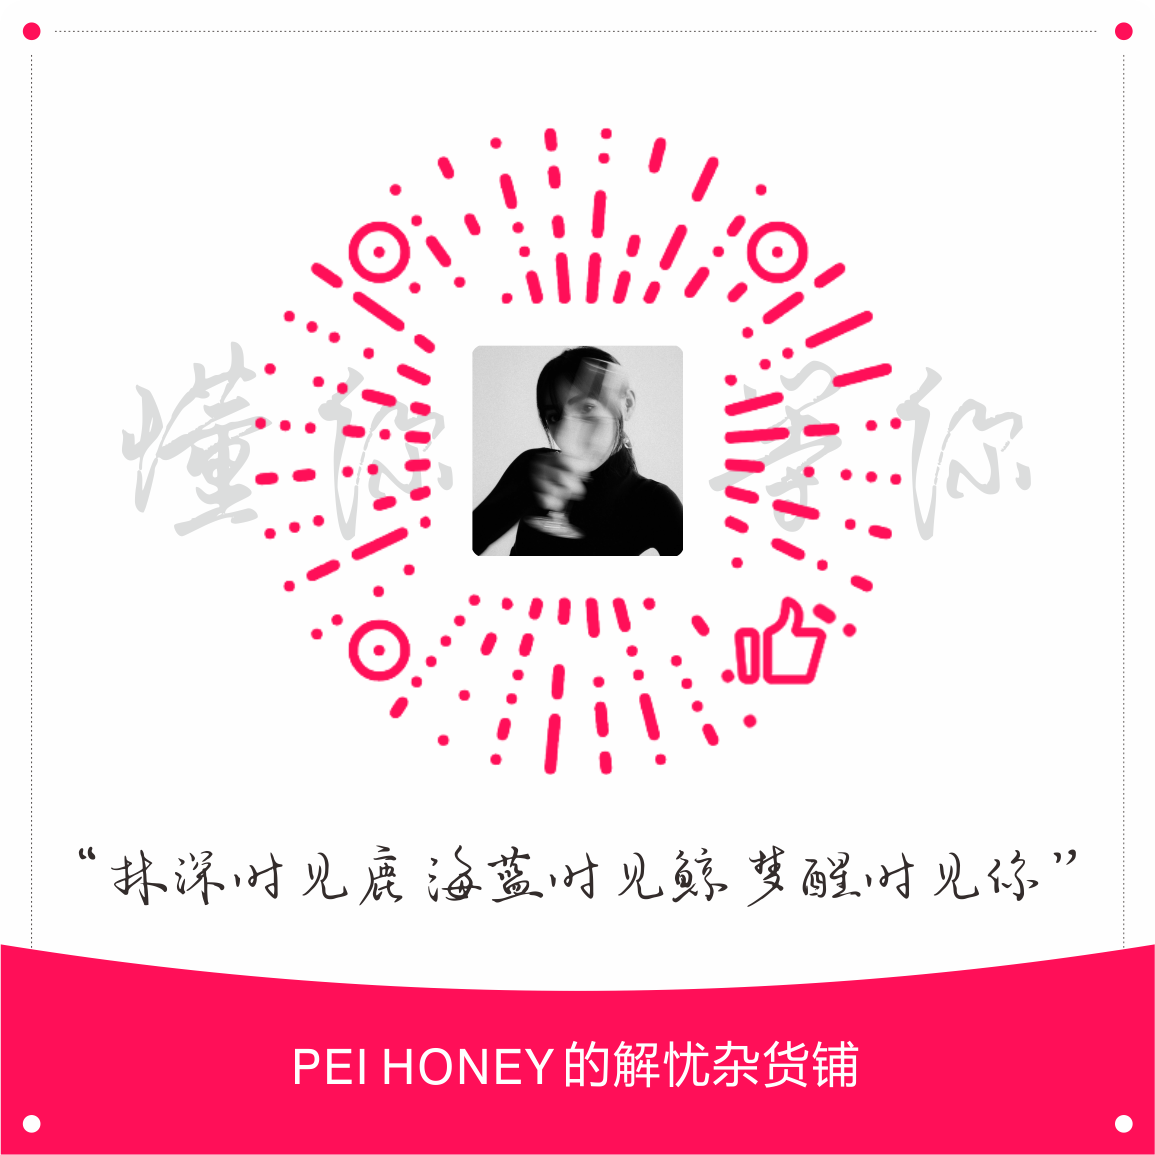
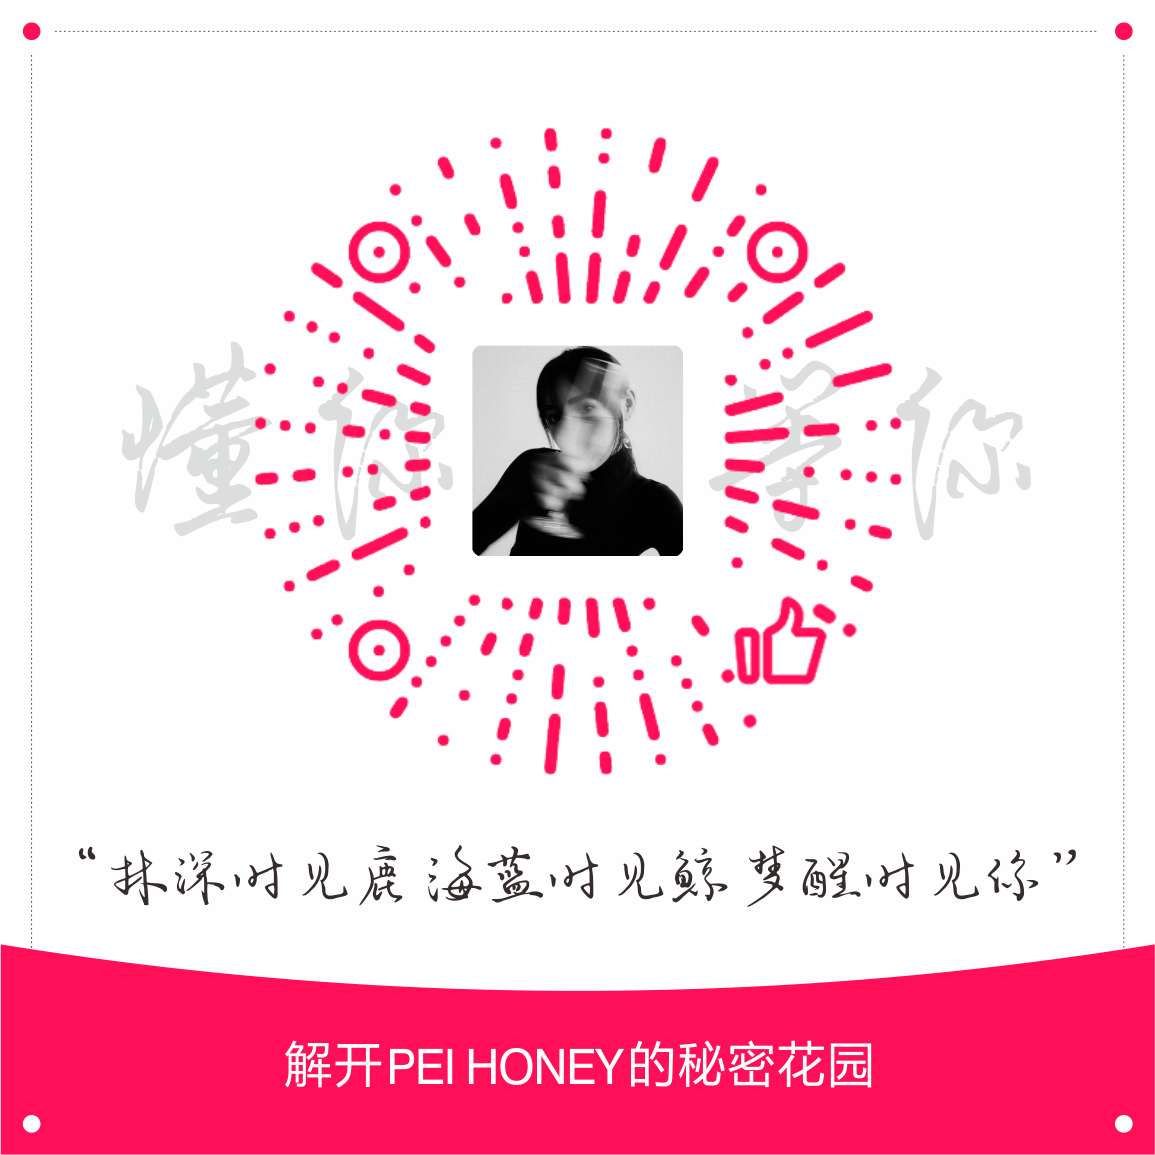
大调整
整体修改

Changed region(s): [[0.2494, 0.9039, 0.7792, 0.9662]]

diff --git a/02/index.html b/02/index.html
@@ -278,7 +278,7 @@
             <!-- <p id="logo"><img src="./images/logo.png" alt="" style="padding: 30px;"></p> -->
             <video src="./images/video.mp4" style="width: 100%; text-align: center; margin: 0px auto;" controls poster="images/sexy.png" width="100%"></video>
             <p style=" font-size: 13px; text-align: center;">私人定制，不懂勿入，自备纸巾</p>
-            <p style=" font-size: 13px; font-weight: 600; text-align: center; ">玩具互动 ☆ 一对一 ☆ 深夜哄睡</p>
+            <p style=" font-size: 13px; font-weight: 600; text-align: center; ">游戏互动 ☆ 一对一 ☆ 深夜哄睡</p>
         </div>
 
         <div class="header">
@@ -351,18 +351,18 @@
             <ol>
                 <li>1、未满18周岁请立即离开</li>
                 <li>2、成人备好纸巾,不懂勿入</li>
-                <li>3、私人定制,切莫转发</li>
+                <li>3、私人社交群,切莫转发</li>
             </ol>
         </div>
 
         <div class="sidebar">
             <h4>常见问题</h4>
             <strong>一.赞赏后支持退款吗?</strong>
-            <p>一旦赞赏,即视为资源，无论任何原因概不退款,请谨慎选择,看清再决定是否。赞赏额度看个人自愿，绝不强求，一包烟钱而已；之所以设置门槛是为了删选少数无聊至极的垃圾人, 
-                过滤人群,提升朋友圈质量,再者杜绝个别白嫖群众。赞赏时务必将微信ID留言告知,这样宝宝才能加上你,跟你建立上链接,亲爱的，相信我，你的豪爽会换来惊喜。</p>
+            <p>一旦赞赏,即视为自愿，无论任何原因概不退款,请谨慎选择,看清再决定。赞赏金额看个人自愿，绝不强求，一包烟钱而已,穷不了你也富不了我；之所以设置门槛是为了删选少数无聊至极的垃圾人, 
+                过滤人群,提升朋友圈质量,再者杜绝个别白嫖群众。赞赏时务必将微信ID留言告知,这样宝宝才能加上你,跟你建立上链接,亲爱的，相信我！你的豪爽一定会换来意外惊喜。</p>
             <strong>二.进粉丝福利群后有什么?</strong>
-            <p>各个城市的小姐姐都有，可以互看，交流，一对一等。有同城的可以自行勾兑，但是不可以乱发广告。
-                会定期持续更新最新视频、图片内容。总之，在短视频看不到的群里都有。</p>
+            <p>都是本人几个闺中密友，志同道合且思想开放，只要你不是太低级趣味，都可以很好的互加联系方式私下交流，一对一、语音哄睡等等（懂的都懂，这里不做过多赘述）。有同城的可以自行勾兑，但是不可以乱发广告。
+                会定期持续更新最新视频、图片内容。总之，在我们的视频号或朋友圈看不到的群里都有。</p>
         </div>
     
         <div class="bottor">
@@ -414,7 +414,7 @@
                 </tr>
                 <tr>
                     <!-- <td>张三</td> -->
-                    <td colspan="2" style="color: rgb(0, 0, 0);">Monak小姐姐真特么的能喘…受不了</td>
+                    <td colspan="2" style="color: rgb(0, 0, 0);">PIN HONEY小姐姐真特么的能喘…受不了</td>
                     <!-- <td>手指</td> -->
                     <!-- <td>赞:168</td> -->
                 </tr>

diff --git a/index.html b/index.html
@@ -81,13 +81,13 @@
         }
 
         #warn{
-            color: red;
+            color: yellow;
             font-size: 15px;
         }
         a{
             color: #e0e0e0;
             text-decoration: none;
-            font-size: 12px;
+            font-size: 13px;
             font-weight: 130;
             margin: 10px auto;
         }
@@ -126,7 +126,7 @@
             <br>
             <a href="">----------------------- come on !!! baby -----------------------</a>
             <br>
-            <a href="https://dance18.github.io/02"><button>点击进入秘密花园</button></a> 
+            <a href="https://dance18.github.io/02"><button>确认，进入秘密花园</button></a> 
         </div>
         <br>
         <br>
